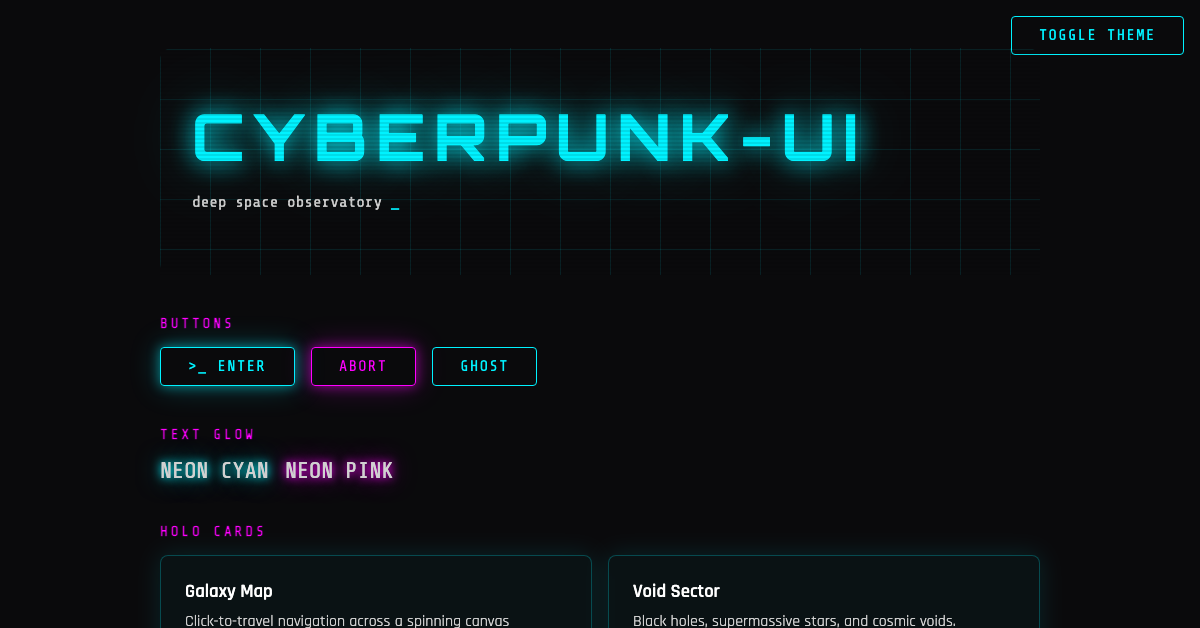
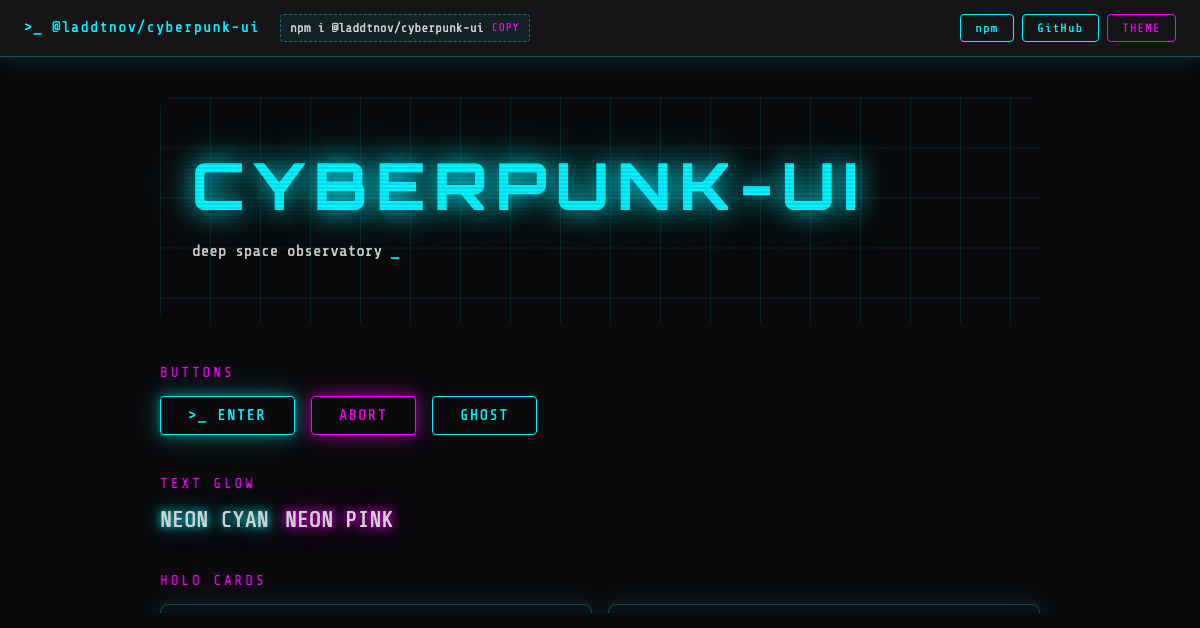
feat(demo): add header bar with install command and package links
Visitors arriving from a shared link had no next step — the demo showed the
kit but never named the package or how to get it.

Adds a sticky top bar, styled entirely with the package's own tokens:
- package name, click-to-copy 'npm i @laddtnov/cyberpunk-ui'
- npm and GitHub links
- theme toggle, moved off the hero (it used to float over the title and
  showed up in the social preview image)

Copy button falls back to selecting the command when the Clipboard API is
blocked. Regenerated og-image.png so the preview card now shows the package
name and install line.

diff --git a/demo/index.html b/demo/index.html
@@ -33,21 +33,81 @@
       background: var(--cy-bg);
       color: var(--cy-text);
       font-family: var(--cy-font-body);
-      padding: 3rem 1.5rem;
     }
-    .wrap { max-width: 880px; margin: 0 auto; display: flex; flex-direction: column; gap: 2.5rem; }
+    .wrap { max-width: 880px; margin: 0 auto; padding: 2.5rem 1.5rem 4rem; display: flex; flex-direction: column; gap: 2.5rem; }
     h1 { font-family: var(--cy-font-display); font-size: clamp(2rem, 7vw, 4rem); letter-spacing: 0.14em; margin: 0; }
     h2 { font-family: var(--cy-font-mono); color: var(--cy-neon-pink); font-size: 0.9rem; letter-spacing: 0.2em; text-transform: uppercase; margin: 0 0 1rem; }
     .row { display: flex; gap: 1rem; flex-wrap: wrap; align-items: center; }
     .hero { padding: 3rem 2rem; border-radius: 12px; }
     .mono { font-family: var(--cy-font-mono); }
-    .theme-toggle { position: fixed; top: 1rem; right: 1rem; }
+
+    /* ── Top bar — styled entirely with the package's own tokens ── */
+    .topbar {
+      position: sticky;
+      top: 0;
+      z-index: 20;
+      display: flex;
+      flex-wrap: wrap;
+      align-items: center;
+      gap: 0.75rem 1.25rem;
+      padding: 0.85rem 1.5rem;
+      background: var(--cy-surface);
+      border-bottom: 1px solid rgba(var(--cy-cyan-rgb), 0.3);
+      box-shadow: 0 0 24px rgba(var(--cy-cyan-rgb), 0.12);
+    }
+    .topbar__name {
+      font-family: var(--cy-font-mono);
+      color: var(--cy-neon-cyan);
+      letter-spacing: 0.08em;
+      font-size: 0.95rem;
+      text-decoration: none;
+      white-space: nowrap;
+    }
+    .topbar__spacer { flex: 1 1 auto; }
+    .install {
+      display: inline-flex;
+      align-items: center;
+      gap: 0.5rem;
+      font-family: var(--cy-font-mono);
+      font-size: 0.8rem;
+      color: var(--cy-text);
+      background: rgba(var(--cy-cyan-rgb), 0.06);
+      border: 1px dashed rgba(var(--cy-cyan-rgb), 0.4);
+      border-radius: 4px;
+      padding: 0.35rem 0.6rem;
+      cursor: pointer;
+      white-space: nowrap;
+    }
+    .install:hover { border-style: solid; border-color: var(--cy-neon-cyan); }
+    .install__hint { color: var(--cy-neon-pink); font-size: 0.7rem; letter-spacing: 0.08em; }
+    .topbar__links { display: flex; gap: 0.5rem; align-items: center; }
+    .topbar .cy-btn { font-size: 0.75rem; padding: 0.4rem 0.9rem; }
+
+    @media (max-width: 640px) {
+      .topbar { justify-content: center; }
+      .topbar__spacer { display: none; }
+    }
   </style>
 </head>
 <body>
-  <div class="wrap">
-    <button class="cy-btn theme-toggle" onclick="document.documentElement.dataset.theme = document.documentElement.dataset.theme === 'light' ? 'dark' : 'light'">TOGGLE THEME</button>
+  <header class="topbar">
+    <a class="topbar__name" href="https://github.com/laddtnov/cyberpunk-ui">&gt;_ @laddtnov/cyberpunk-ui</a>
 
+    <button type="button" class="install" id="install" aria-label="Copy install command">
+      <span id="install-cmd">npm i @laddtnov/cyberpunk-ui</span>
+      <span class="install__hint" id="install-hint">COPY</span>
+    </button>
+
+    <span class="topbar__spacer"></span>
+
+    <nav class="topbar__links">
+      <a class="cy-btn" href="https://www.npmjs.com/package/@laddtnov/cyberpunk-ui" target="_blank" rel="noopener noreferrer">npm</a>
+      <a class="cy-btn" href="https://github.com/laddtnov/cyberpunk-ui" target="_blank" rel="noopener noreferrer">GitHub</a>
+      <button type="button" class="cy-btn cy-btn--pink" id="theme" aria-label="Toggle light and dark theme">THEME</button>
+    </nav>
+  </header>
+
+  <div class="wrap">
     <section class="hero cy-grid-bg cy-scanlines">
       <h1 class="cy-glitch">CYBERPUNK-UI</h1>
       <p class="mono">deep space observatory <span class="cy-cursor"></span></p>
@@ -84,5 +144,36 @@
       </div>
     </section>
   </div>
+
+  <script>
+    // Theme toggle
+    document.getElementById('theme').addEventListener('click', () => {
+      const root = document.documentElement;
+      root.dataset.theme = root.dataset.theme === 'light' ? 'dark' : 'light';
+    });
+
+    // Copy the install command. If the Clipboard API is unavailable or blocked
+    // (permissions, insecure context), fall back to selecting the text so the
+    // visitor can still hit Cmd/Ctrl+C.
+    const installBtn = document.getElementById('install');
+    const cmdEl = document.getElementById('install-cmd');
+    const hint = document.getElementById('install-hint');
+
+    installBtn.addEventListener('click', async () => {
+      const cmd = cmdEl.textContent.trim();
+      try {
+        await navigator.clipboard.writeText(cmd);
+        hint.textContent = 'COPIED!';
+      } catch {
+        const range = document.createRange();
+        range.selectNodeContents(cmdEl);
+        const sel = window.getSelection();
+        sel.removeAllRanges();
+        sel.addRange(range);
+        hint.textContent = 'PRESS ⌘C';
+      }
+      setTimeout(() => { hint.textContent = 'COPY'; }, 2000);
+    });
+  </script>
 </body>
 </html>
